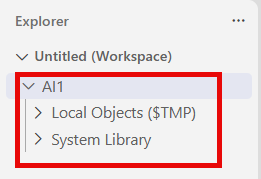
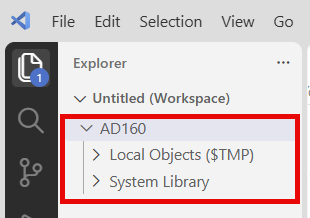
system access

diff --git a/exercises/ex0/README.md b/exercises/ex0/README.md
@@ -213,9 +213,9 @@ The ADT extension should be installed and opens the **ABAP Development Tools for
 
 3. Select **HTTP** as the connection type.
 
-4. You now need to enter the ABAP service instance URL as the **System URL** of your ABAP Cloud system. To get the **System URL**, proceed as follows:
+4. Enter the **System URL** to the ABAP Cloud system. To get the **System URL**, proceed as follows:
 
-    a. Start your browser in browser in **incognito/inPrivate** mode. For expample, choose right-click from the browser icon on the taskbar.  
+    a. Start your browser in **incognito/inPrivate** mode. For expample, choose right-click from the browser icon on the taskbar.  
 
     b. Type the short link from the handout into the address bar of your browser.
 
@@ -247,17 +247,19 @@ The ADT extension should be installed and opens the **ABAP Development Tools for
 
     ![Displayed system URL](images/ex0_system_url_browser.png)
     
-5. You can now paste the **System URL** from the clipboard into the command dialog in VS Code.
-
-6. Press **`Enter`**, then type a short **ID** for this destination (e.g., `AD160`<!-- `RAP130`-->).
+5. Paste the **System URL** from the clipboard into the command dialog in VS Code.
 
 6. Press **`Enter`**. 
+
+7. Type a short **ID** for this destination (e.g., `AD160`<!-- `RAP130`-->).
+
+7. Press **`Enter`**. 
 
     The connection is established and a dialog is opened. From here you can add the destination directly to your workspace.
 
    ![Dialog to add the destination to the workspace directly](images/ex0_vs_code_create_add_destination_dialog.png)
 
-7. Choose the **`Add Destination to Workspace`** button.  
+8. Choose the **`Add Destination to Workspace`** button.  
 
 The destination appears in the workspace in the **Explorer**.
 
@@ -348,35 +350,38 @@ The destination appears in the workspace.
 
 The destination appears in the workspace in the **Explorer**.
 
+---
 
-### Log on the destination and your user to the ABAP system 
+### Log on your user to and connect your destination with the ABAP system 
 
-> Next, you need to log on the destination and your user to the ABAP system. Proceed as follows:
+> Next, you need to log on your user to the ABAP system. Proceed as follows:
 
-1. Select the destination in the **Explorer**.
+1. Select your destination in the **Explorer**.
 
-2. Choose **Log On to Destination...** from the context menu.
+2. Choose **Log On to Destination...** from the context menu.  
 
-![Selecting the Copy to Clipboard option](images/ex0_logon_destination_clipboard.png)
+  The **Log On to ...** dialog is opened from the list.
 
-   The URL is stored in your clipboard.
+3. Choose **Copy to Clipboard**.
 
-3. Start your browser in **incognito/inPrivate** mode mode and paste the URL from the clipboard in the address bar.
+  ![Selecting the Copy to Clipboard option](images/ex0_logon_destination_clipboard.png)
 
-   The **Welcome to ABAP_TARGET2!** page is opened.  
-   ![System overview](images/ex0_target2_page.png)
+  The URL is stored in your clipboard.
 
-4. Choose the link to **'tdct3ched2.accounts.ondemand.com'**.  
-   The **Sign In** page is opened.
+4. Switch back to the browser that is opened in **incognito/inPrivate** mode.
 
-   ![Dialog to enter the access credentials](images/ex0_login_user_pw.png)
+5. Open a new tab and paste the URL into the address bar. 
 
-5. Enter your **`User`** and **`Password`** that will be provided by the instructor.
+6. Confirm with `Enter`.
 
-6. Confirm with **`Continue`**. 
+The loggon will be confirmed and your user will be logged on to the ABAP system.
 
-    Your log on will be confirmed and the system structure of your destination becomes available in the **Explorer**.  
-   ![Display of the system structure](images/ex0_system_explorer.png)
+  ![Success message in your browser](images/ex0_log-on_adt_page.png)
+
+ 7. Switch back to VS Code.
+
+  The system structure of your destination becomes available in the Explorer.
+ ![Display of the system structure](images/ex0_system_explorer.png) 
 
 </details>
 
